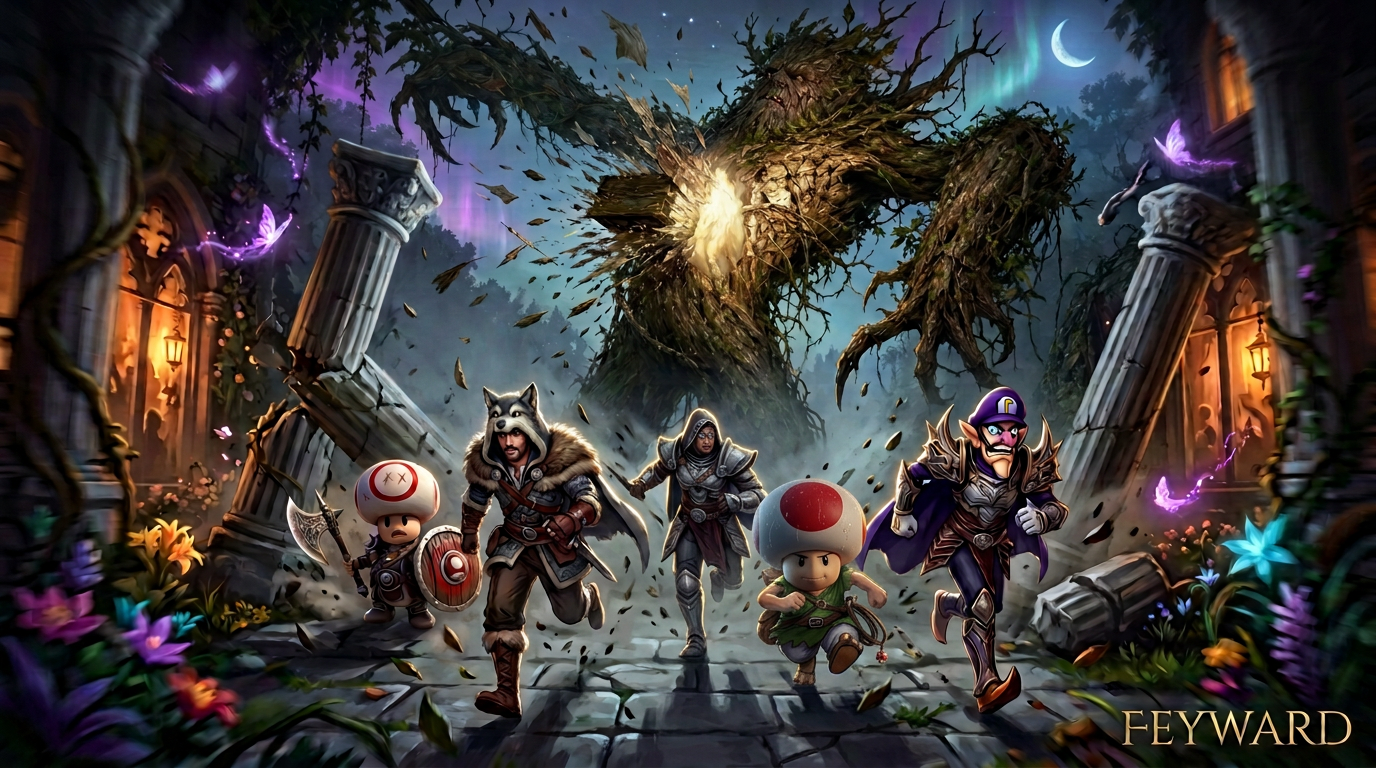
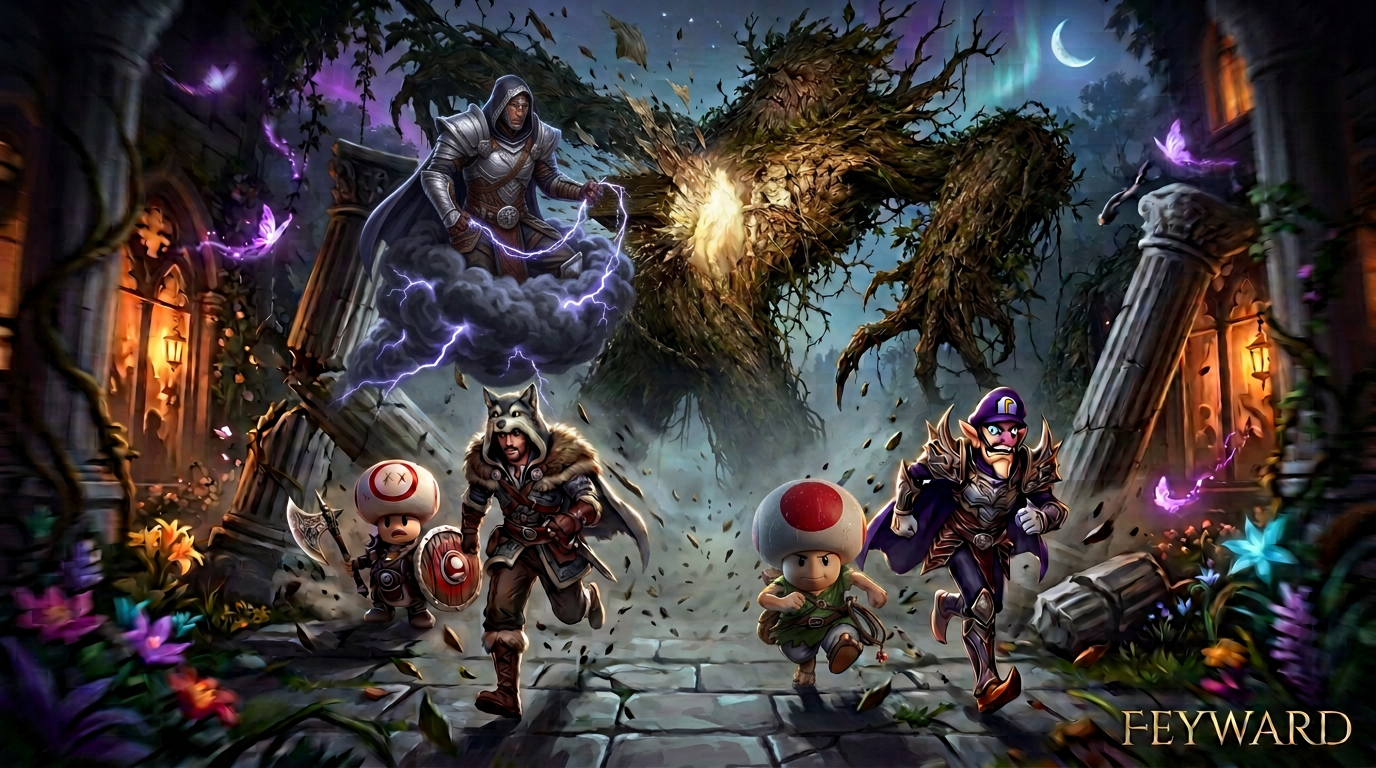
fix: cover corrections — Remi's dual hand crossbows (no firearm), Archie on the storm cloud
- Shadeward: Remi's longbow replaced with her canonical dual hand crossbows
  (one raised, one at her side); holstered revolver removed. Archive reads
  'Remi drew her dual hand crossbows and fired a volley.'
- Feyward: horned-helmet look removed; Archie rides his canonical storm
  cloud above the fleeing crew, matching the Tree of Woe art.
- Run report round-2 section documents both edits.

diff --git a/docs/run-reports/2026-09-06-session-covers-and-home-gallery.md b/docs/run-reports/2026-09-06-session-covers-and-home-gallery.md
@@ -19,6 +19,15 @@ reposed to face the tree; Bones removed after reading the latest filing;
 Eager/Bones cap and face restored from `portraits/`; canvas corrected back to
 16:9.
 
+**Round 2 corrections (this report):**
+- **Shadeward:** Remi's longbow replaced with her canonical **dual hand
+  crossbows** (raised + at her side), and the holstered revolver removed —
+  the archive reads "Remi drew her dual hand crossbows and fired a volley"
+  (Shadow Estate, Harvestside 14). No firearm in frame.
+- **Feyward:** Archie's horned-helmet look removed; he is now on his
+  canonical **storm cloud** above the fleeing crew, matching the Tree of Woe
+  art (`archie-storm-nimbus-tree-of-woe.jpg`), horns gone.
+
 ## Roster check (latest articles)
 
 - **Feyward front** — `feyward_library_reclamation_and_the_kitchen`
